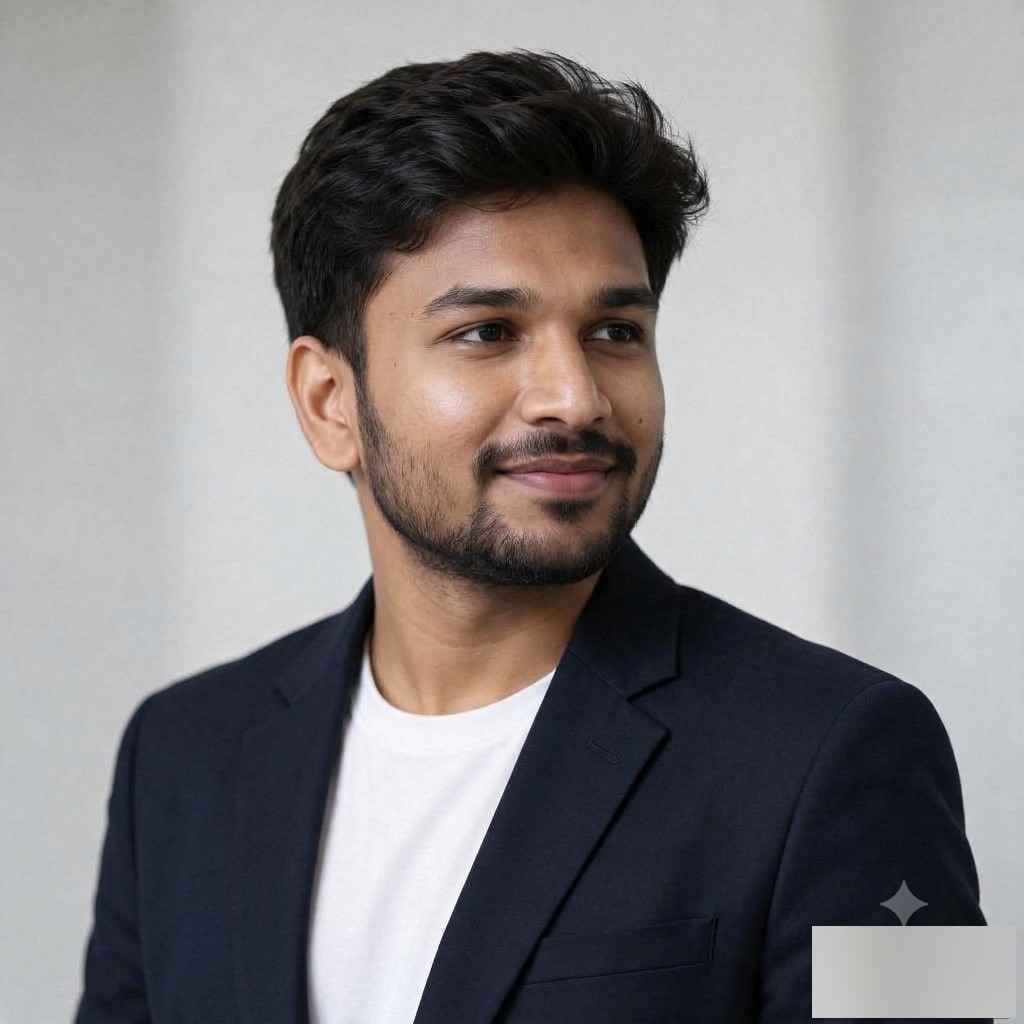
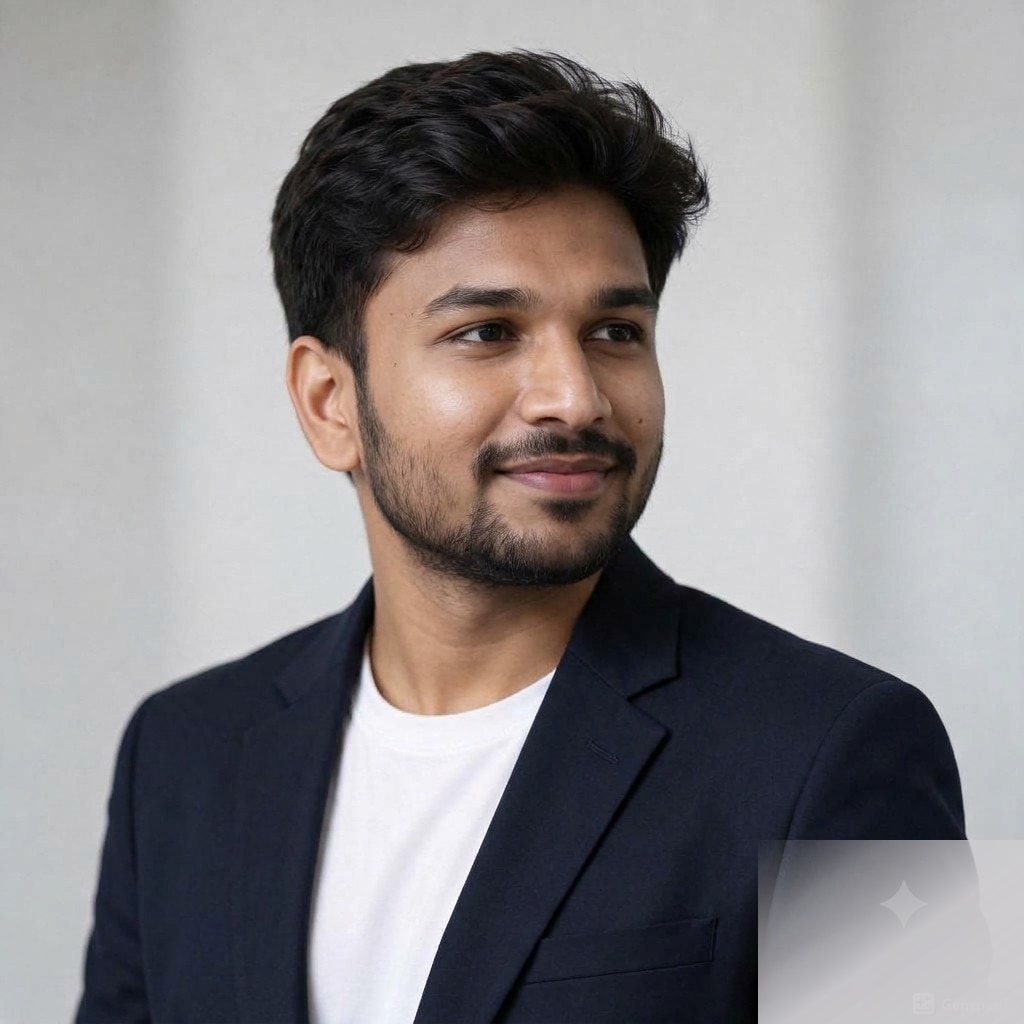
fix: soften watermark cover with blended wall veil
Use a gradient veil over the corner so the mark is hidden without a hard box.

Changed region(s): [[0.7188, 0.8125, 1.0, 1.0]]

diff --git a/src/components/Hero.tsx b/src/components/Hero.tsx
@@ -120,9 +120,9 @@ export function Hero() {
                 fetchPriority="high"
                 className="aspect-square h-auto w-full object-cover"
               />
-              {/* Soft fade if any watermark edge remains */}
+              {/* Extra soft cover for watermark corner on display */}
               <div
-                className="pointer-events-none absolute bottom-0 right-0 h-[12%] w-[22%] bg-gradient-to-tl from-[#cfcdd0] via-[#cfcdd0]/70 to-transparent"
+                className="pointer-events-none absolute bottom-0 right-0 h-[20%] w-[28%] bg-gradient-to-tl from-[#cfcdd0] from-15% via-[#cfcdd0]/80 to-transparent"
                 aria-hidden
               />
             </div>
